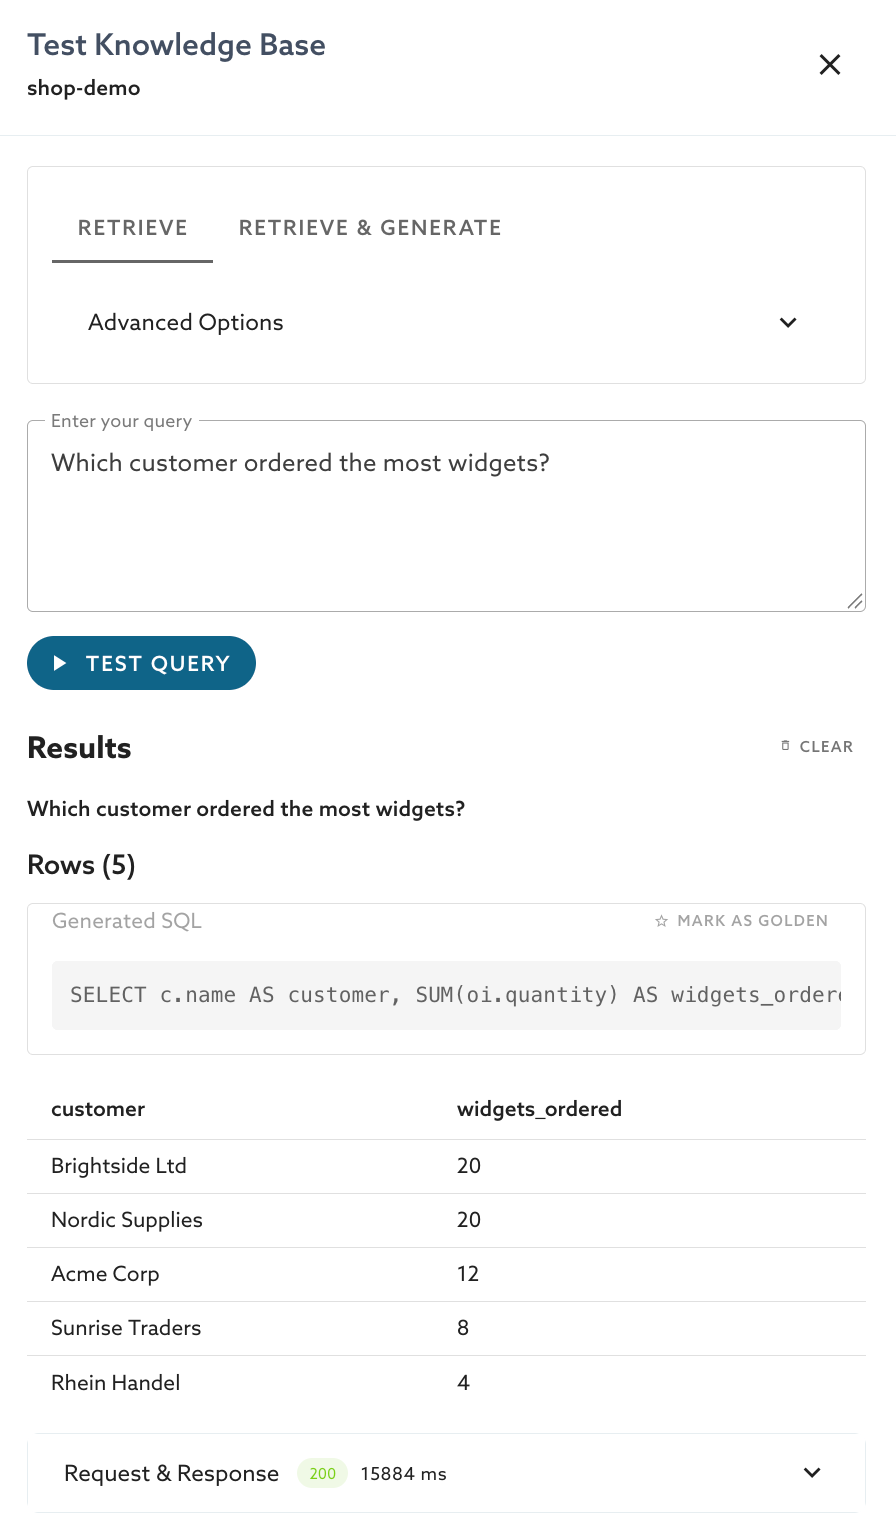
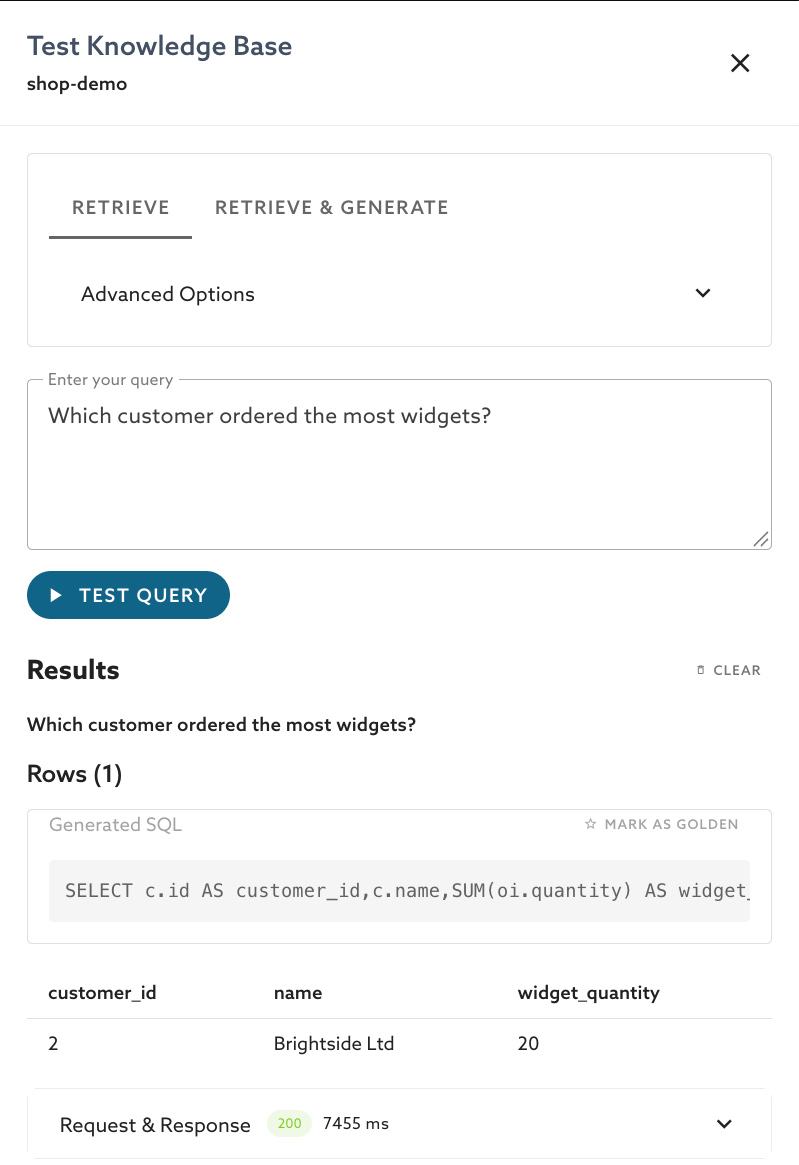
DOCS-6592 Use production screenshots for the database knowledge base
Retake the create form, the Ready page with its Schema Annotations
table, and the Test drawer in production, with the neutral service
name docs-demo, and update their alt text. The expanded Tables image
was already taken in production. Egor Ustinov asked for the Database
KB creation section to match production.

diff --git a/mariadb-cloud/cloud-ai/ai-retrieval/database-knowledge-bases.md b/mariadb-cloud/cloud-ai/ai-retrieval/database-knowledge-bases.md
@@ -35,7 +35,7 @@ A column that you leave out is not described to the model, but the database user
 
 <figure><img src="../../.gitbook/assets/ai-retrieval-database-tables.png" alt="The Tables section of the Create Knowledge Base form with the customers table expanded. Each of its columns id, name, country, and signed_up has a check box, its data type, a Description field, and a Literals index option."><figcaption><p>The Tables section with a table expanded</p></figcaption></figure>
 
-<figure><img src="../../.gitbook/assets/ai-retrieval-database-create.png" alt="The Create Knowledge Base form with Database Knowledge Base selected, the service docs-demo-kb, the schema shop, and its four tables listed."><figcaption><p>The Create Knowledge Base form for a database knowledge base</p></figcaption></figure>
+<figure><img src="../../.gitbook/assets/ai-retrieval-database-create.png" alt="The Create Knowledge Base form with Database Knowledge Base selected, the service docs-demo, the schema shop, and its four tables listed."><figcaption><p>The Create Knowledge Base form for a database knowledge base</p></figcaption></figure>
 
 AI Retrieval connects to the database and synchronizes its schema. This usually takes a few minutes. If no database is connected within 15 minutes, the setup is marked as failed. When the knowledge base is ready, use **Test** to ask a question, or **Connect** to call it from your application.
 
@@ -61,7 +61,7 @@ Synchronize the schema again after you change the tables of the database. Some c
 
 Customize the semantic map only when you want to change what AI Retrieval uses, for example to correct a description or to keep a table out of every query.
 
-<figure><img src="../../.gitbook/assets/ai-retrieval-database-kb-ready.png" alt="The page of a Ready database knowledge base, with its data source, the statistics of 4 tables, 16 columns, and 0 golden queries, and the Schema Annotations table that lists the tables orders, order_items, customers, and products, each with the status Retrievable."><figcaption><p>The page of a database knowledge base, with the Schema Annotations table</p></figcaption></figure>
+<figure><img src="../../.gitbook/assets/ai-retrieval-database-kb-ready.png" alt="The page of a Ready database knowledge base, with its data source, the statistics of 4 tables, 16 columns, and 0 golden queries, and the Schema Annotations table that lists the tables orders, customers, order_items, and products, each with the status Retrievable."><figcaption><p>The page of a database knowledge base, with the Schema Annotations table</p></figcaption></figure>
 
 ### Choose How Each Table Is Used
 
@@ -108,7 +108,7 @@ The results show the **Generated SQL** and the rows that it returned. If more ro
 
 The Test drawer has two tabs, **Retrieve** and **Retrieve & Generate**.
 
-<figure><img src="../../.gitbook/assets/ai-retrieval-database-test.png" alt="The Test Knowledge Base drawer of a database knowledge base on the Retrieve tab, with the question Which customer ordered the most widgets, the generated SQL query, and a table of 5 rows with the columns customer and widgets_ordered."><figcaption><p>The Test drawer of a database knowledge base</p></figcaption></figure>
+<figure><img src="../../.gitbook/assets/ai-retrieval-database-test.png" alt="The Test Knowledge Base drawer of a database knowledge base on the Retrieve tab, with the question Which customer ordered the most widgets, the generated SQL query, and one row with the columns customer_id, name, and widget_quantity."><figcaption><p>The Test drawer of a database knowledge base</p></figcaption></figure>
 
 ## Query a Database Knowledge Base with the API
 

diff --git a/mariadb-cloud/cloud-ai/ai-retrieval/quickstart.md b/mariadb-cloud/cloud-ai/ai-retrieval/quickstart.md
@@ -72,11 +72,11 @@ A database knowledge base reads the tables of a MariaDB service that already hol
 8. AI Retrieval connects to the database and builds the semantic map automatically, from the tables that the user can see. You do not need to do anything. Wait until the knowledge base shows **Ready**.
 9. Select **Test**, and ask a question about your data.
 
-<figure><img src="../../.gitbook/assets/ai-retrieval-database-create.png" alt="The Create Knowledge Base form with Database Knowledge Base selected, the service docs-demo-kb, the schema shop, and its four tables listed."><figcaption><p>The Create Knowledge Base form for a database knowledge base</p></figcaption></figure>
+<figure><img src="../../.gitbook/assets/ai-retrieval-database-create.png" alt="The Create Knowledge Base form with Database Knowledge Base selected, the service docs-demo, the schema shop, and its four tables listed."><figcaption><p>The Create Knowledge Base form for a database knowledge base</p></figcaption></figure>
 
-<figure><img src="../../.gitbook/assets/ai-retrieval-database-kb-ready.png" alt="The page of a Ready database knowledge base, with its data source, the statistics of 4 tables, 16 columns, and 0 golden queries, and the Schema Annotations table that lists the tables orders, order_items, customers, and products, each with the status Retrievable."><figcaption><p>A Ready database knowledge base</p></figcaption></figure>
+<figure><img src="../../.gitbook/assets/ai-retrieval-database-kb-ready.png" alt="The page of a Ready database knowledge base, with its data source, the statistics of 4 tables, 16 columns, and 0 golden queries, and the Schema Annotations table that lists the tables orders, customers, order_items, and products, each with the status Retrievable."><figcaption><p>A Ready database knowledge base</p></figcaption></figure>
 
-<figure><img src="../../.gitbook/assets/ai-retrieval-database-test.png" alt="The Test Knowledge Base drawer of a database knowledge base on the Retrieve tab, with the question Which customer ordered the most widgets, the generated SQL query, and a table of 5 rows with the columns customer and widgets_ordered."><figcaption><p>The Test drawer with the generated SQL and the rows that it returned</p></figcaption></figure>
+<figure><img src="../../.gitbook/assets/ai-retrieval-database-test.png" alt="The Test Knowledge Base drawer of a database knowledge base on the Retrieve tab, with the question Which customer ordered the most widgets, the generated SQL query, and one row with the columns customer_id, name, and widget_quantity."><figcaption><p>The Test drawer with the generated SQL and the rows that it returned</p></figcaption></figure>
 
 For access requirements, such as the IP allowlist and restricting what the knowledge base can read, see [Access and Security](access-and-security.md).
 
